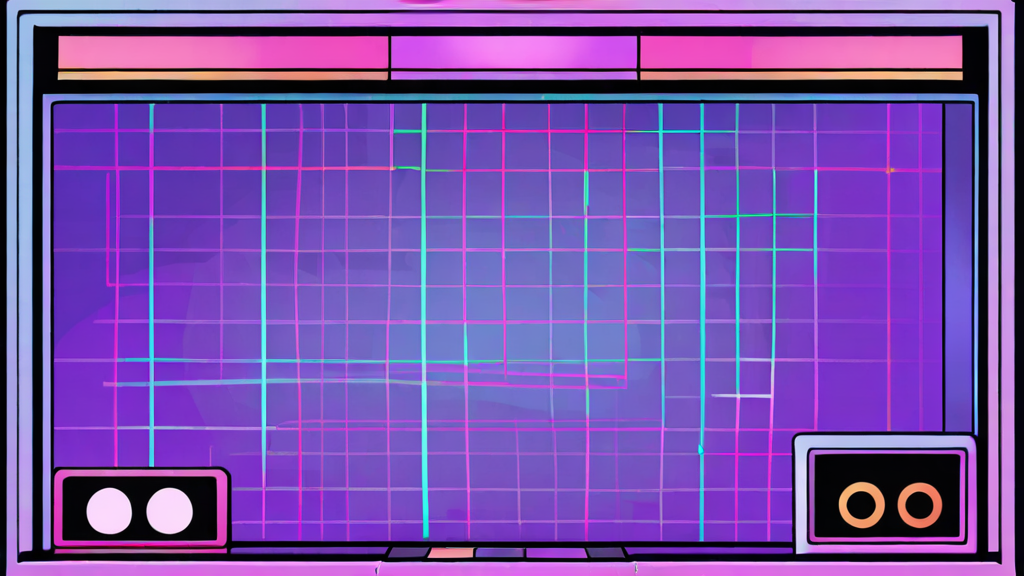
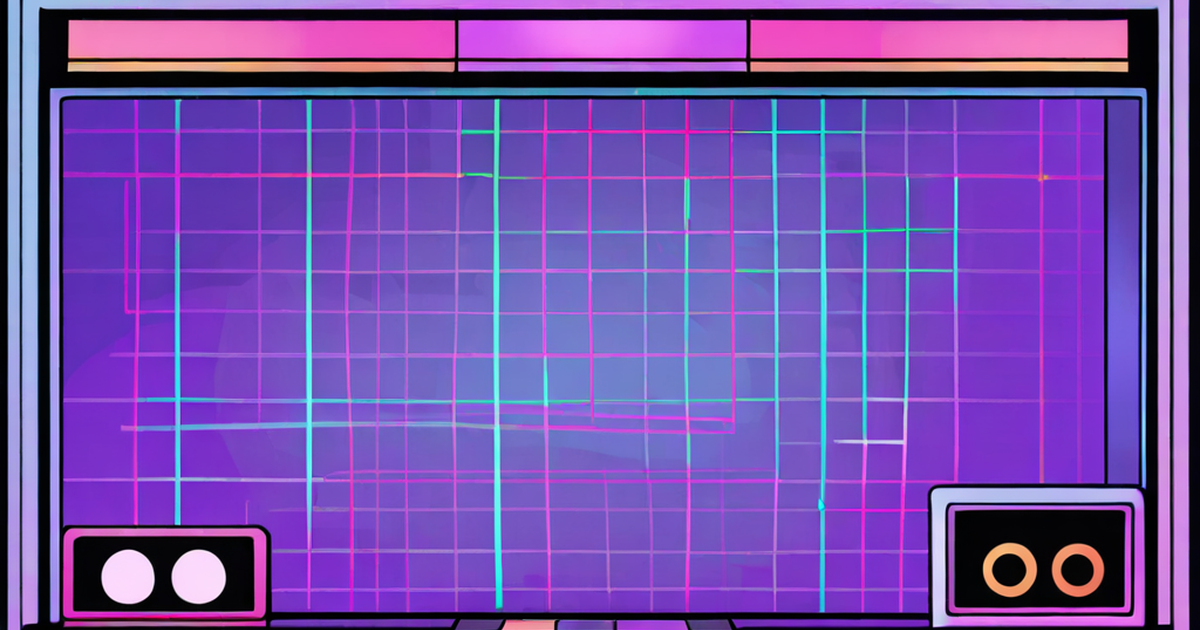
Open Graph : image 1200 x 630 et metadonnees completes

Changed region(s): [[0.0, 0.5312, 1.0, 1.0], [0.0, 0.0, 1.0, 0.3125], [0.0625, 0.3438, 0.9062, 0.4375]]

diff --git a/index.html b/index.html
@@ -10,13 +10,17 @@
     <meta property="og:type" content="website" />
     <meta property="og:title" content="Grille Évadée : Capture de territoire arcade" />
     <meta property="og:description" content="Trace des lignes, esquive les ennemis et conquiers la grille. 12 niveaux et 12 thèmes, dans un jeu d'arcade rétro inspiré de Qix." />
-    <meta property="og:image" content="https://games.hylst.fr/gridevader/og-image.png" />
+    <meta property="og:image" content="https://games.hylst.fr/gridevader/og-image.png?v=2" />
+    <meta property="og:image:type" content="image/png" />
+    <meta property="og:image:width" content="1200" />
+    <meta property="og:image:height" content="630" />
+    <meta property="og:image:alt" content="Grille Évadée" />
     <meta property="og:url" content="https://games.hylst.fr/gridevader/" />
     <meta property="og:site_name" content="Hylst.Games" />
     <meta name="twitter:card" content="summary_large_image" />
     <meta name="twitter:title" content="Grille Évadée : Capture de territoire arcade" />
     <meta name="twitter:description" content="Trace des lignes, esquive les ennemis et conquiers la grille. 12 niveaux et 12 thèmes, dans un jeu d'arcade rétro inspiré de Qix." />
-    <meta name="twitter:image" content="https://games.hylst.fr/gridevader/og-image.png" />
+    <meta name="twitter:image" content="https://games.hylst.fr/gridevader/og-image.png?v=2" />
     <meta name="robots" content="index, follow" />
     <link rel="canonical" href="https://games.hylst.fr/gridevader/" />
     <link rel="icon" type="image/webp" href="/gridevader/favicon.webp" />
